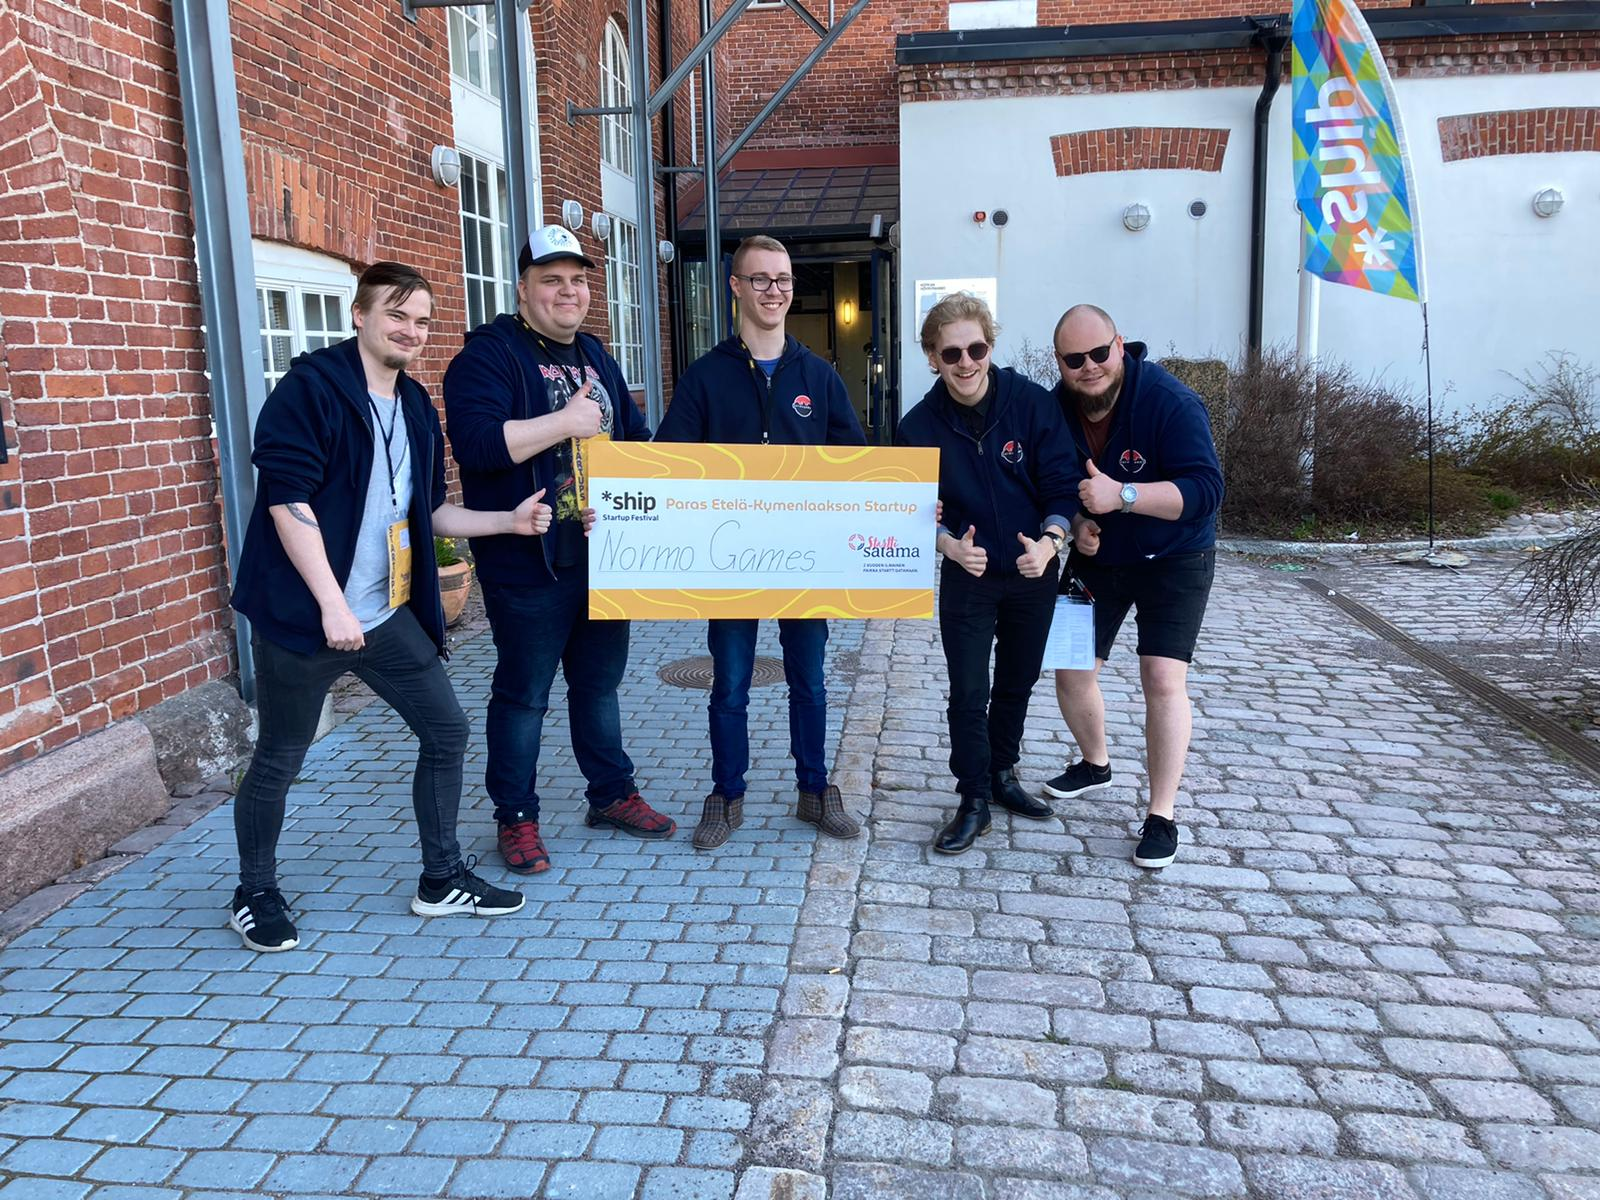
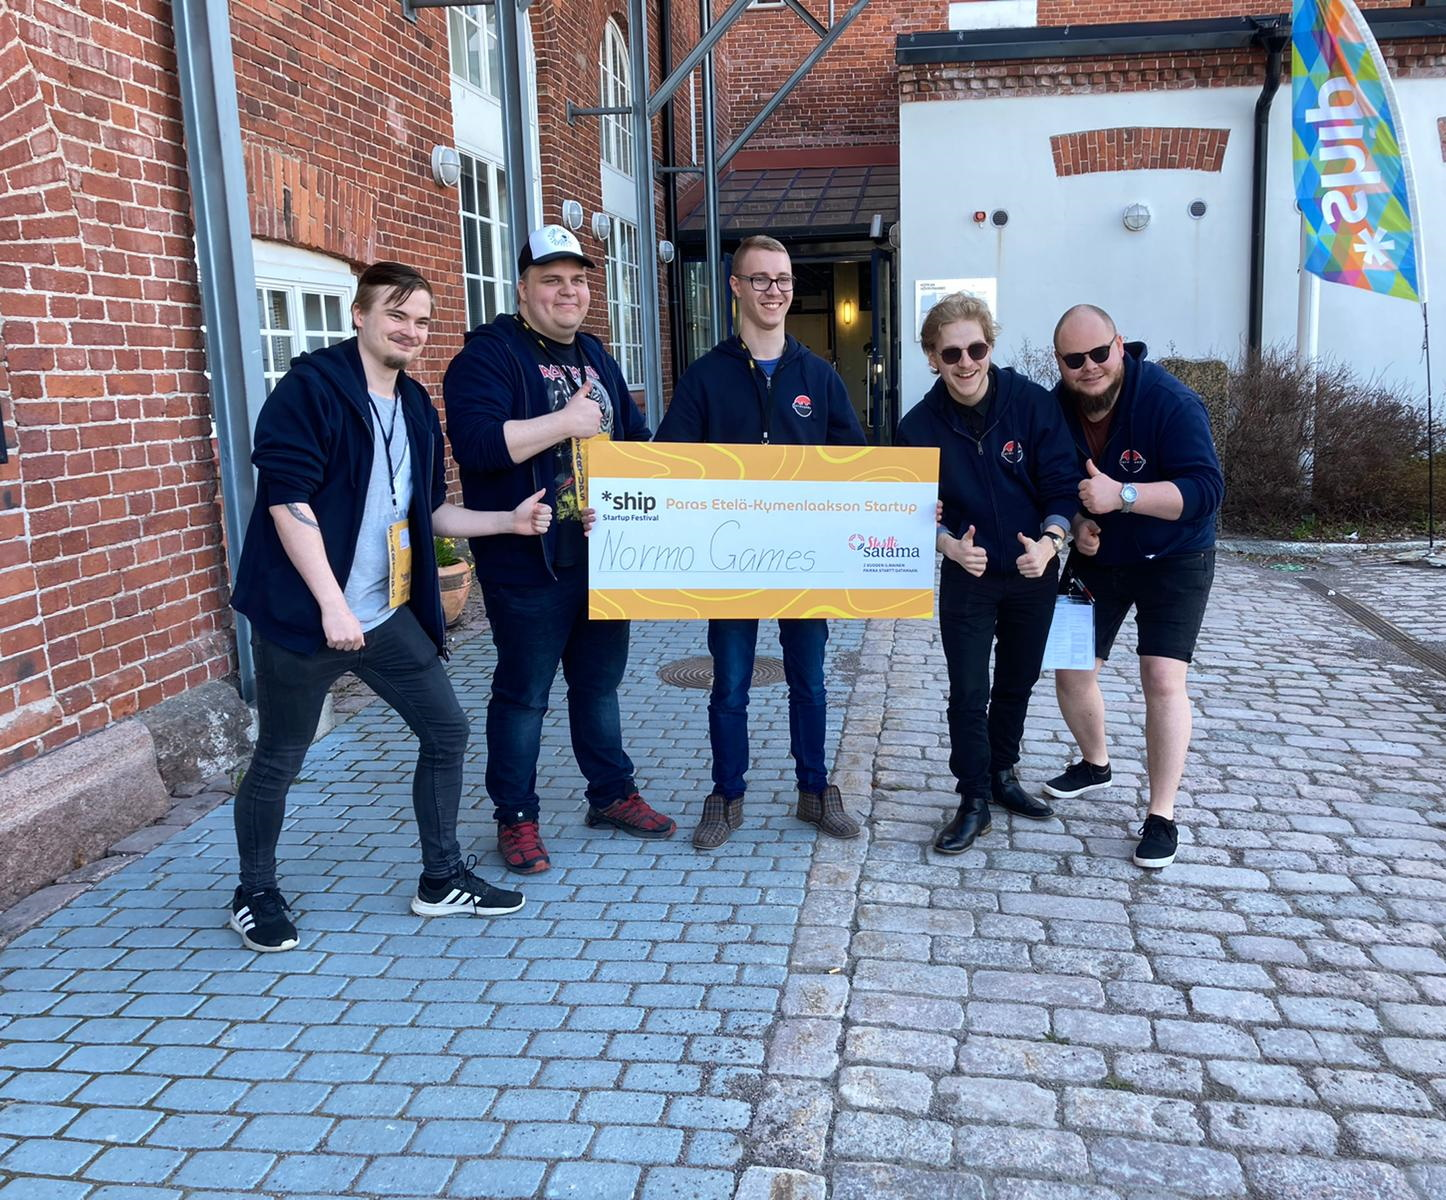
better awards image, cropped it

diff --git a/css/styles.css b/css/styles.css
@@ -81,6 +81,14 @@ hr {
   text-align: center;
 }
 
+@media only screen and (max-width: 600px) {
+  .awards li {
+    font-size: 1.4em;
+    line-height: 2;
+    text-align: left;
+  }
+}
+
 /* SKEWS */
 .white.skew-right {
   transform-origin: top right;
@@ -150,6 +158,17 @@ hr {
   border-top-style: hidden;
   border-left-style: hidden;
   border-right-style: hidden;
+}
+
+@media only screen and (max-width: 600px) {
+  .navbar a {
+    font-size: 1.3em;
+  }
+
+  .navbar img {
+    width: 120px;
+    height: auto;
+  }
 }
 
 /* HEADER */
